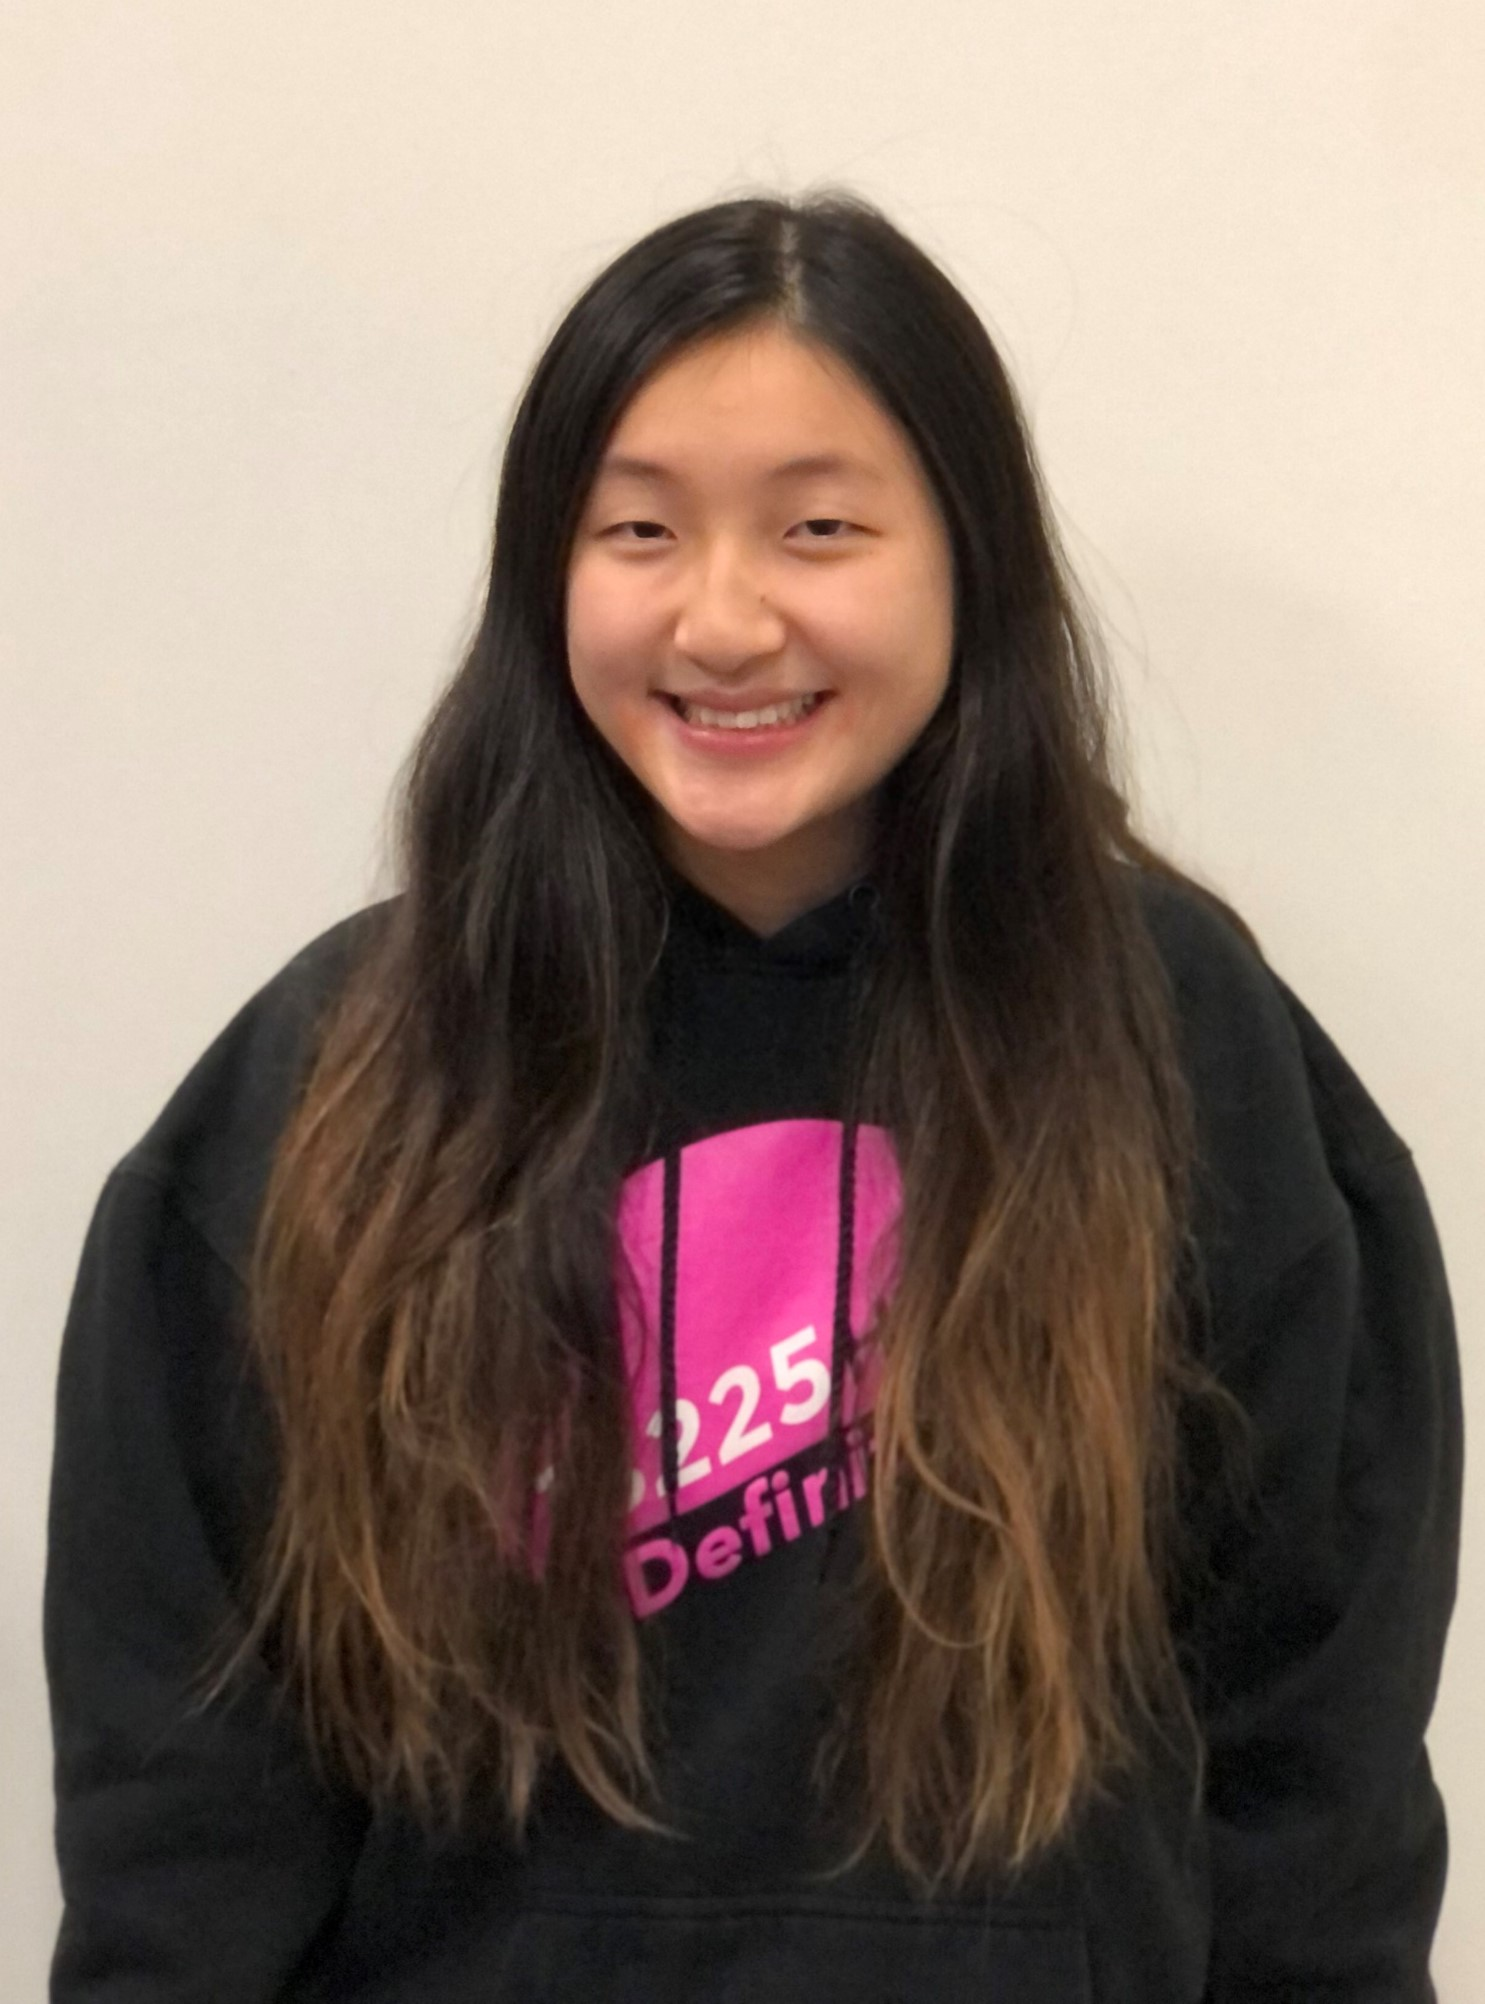
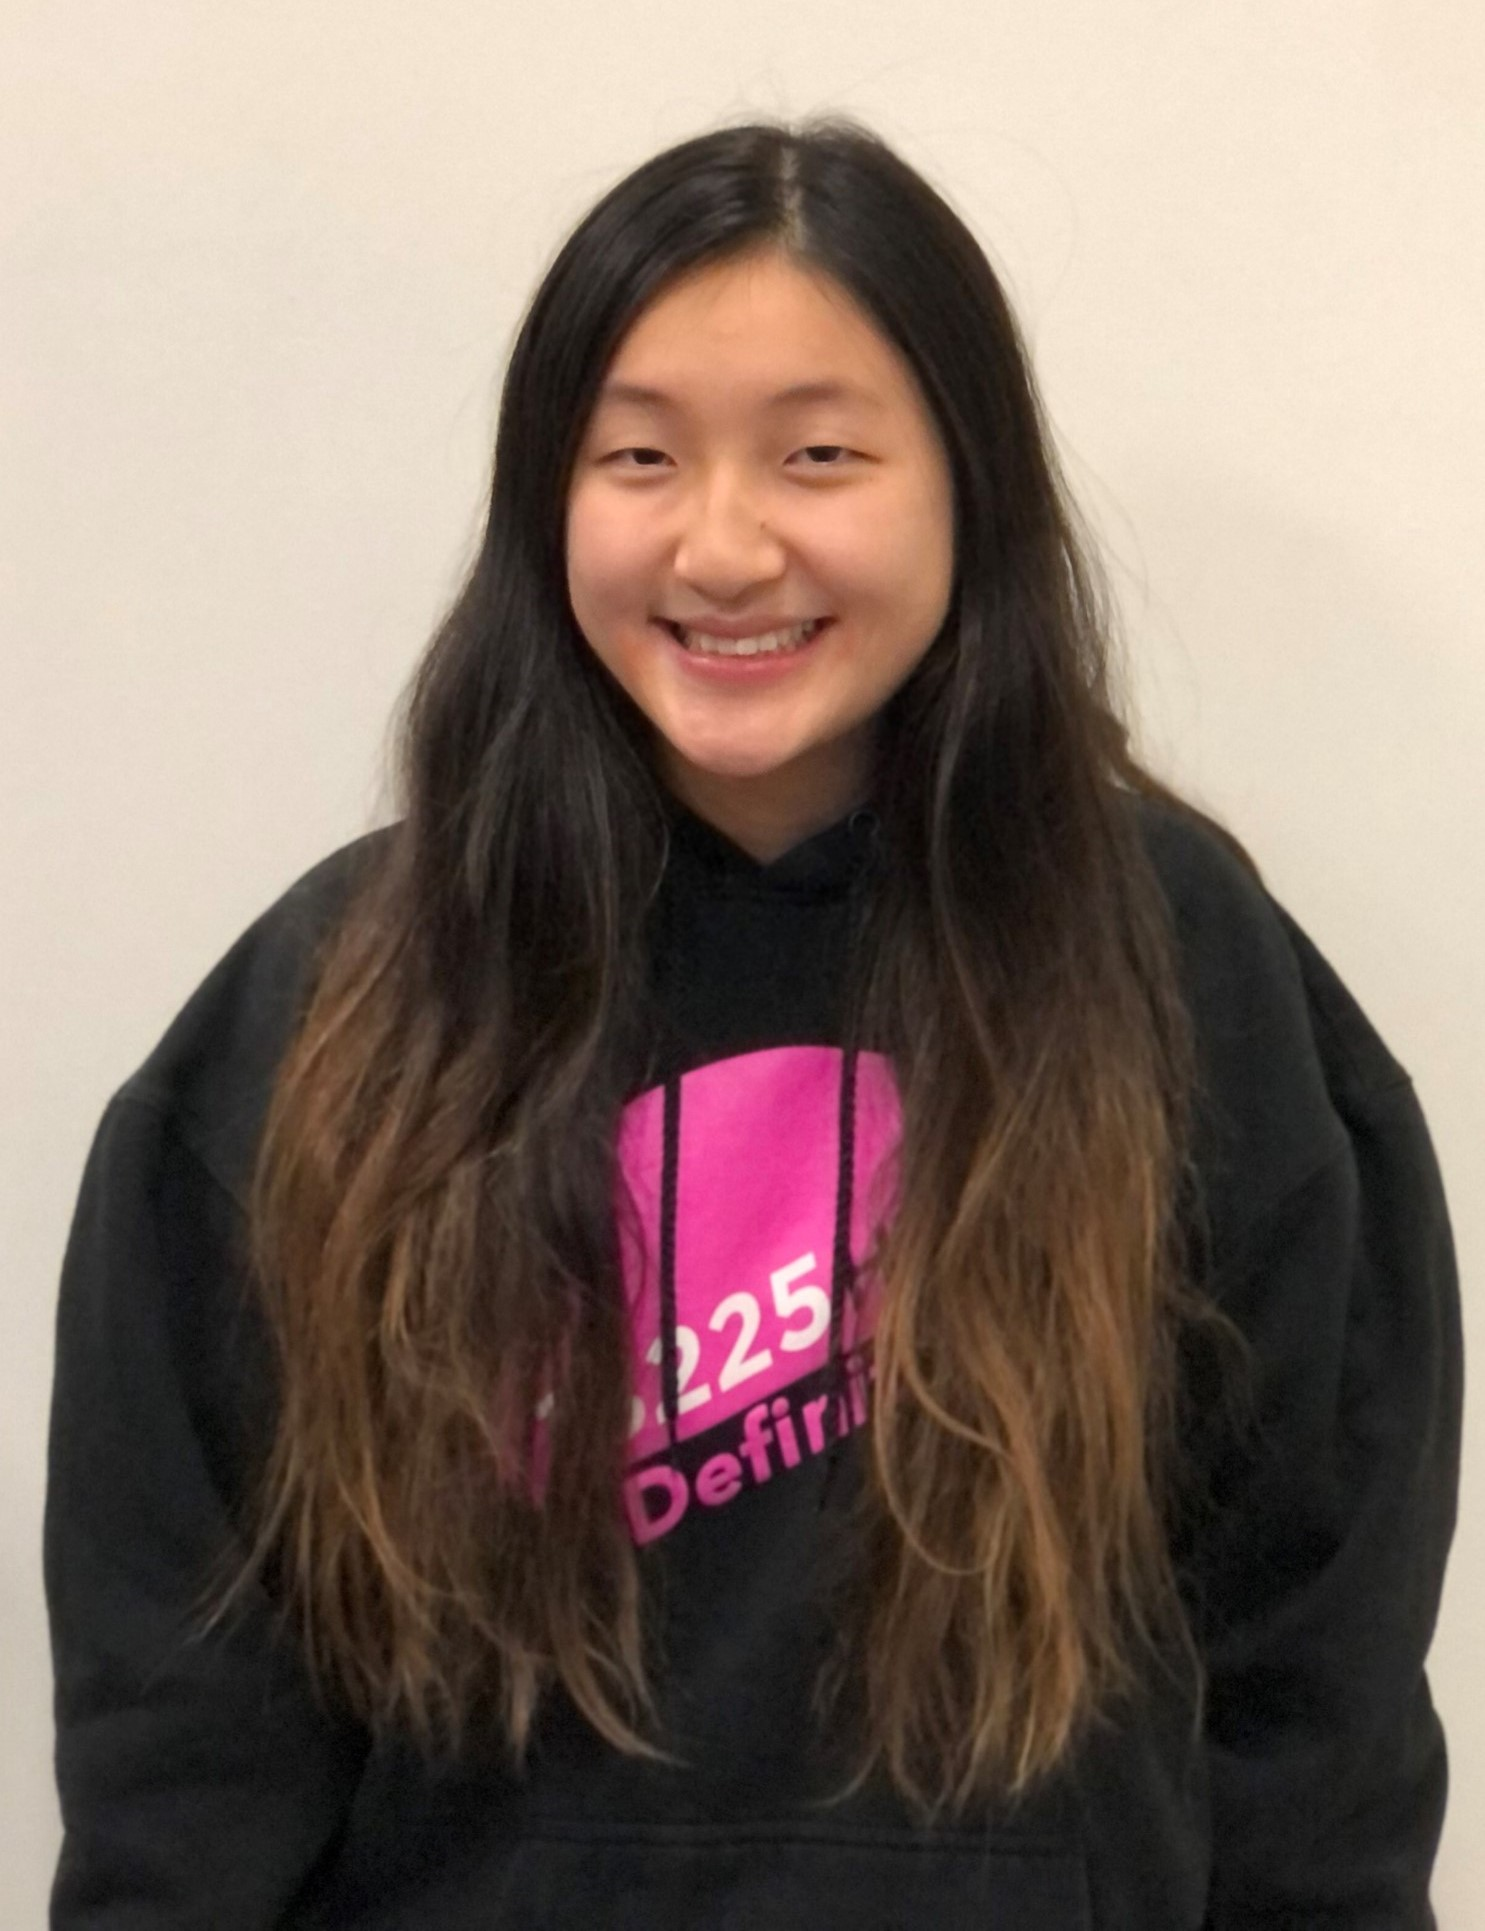
updated images + added subscription

diff --git a/pages/index.js b/pages/index.js
@@ -68,15 +68,15 @@ export default function Index() {
           <FadeInSection>
             <div className="row" style={{margin: 10, padding: 10, backgroundColor: '#333', borderRadius: 10}}>
               <div className="column" style={{display: 'flex', justifyContent: 'center', alignItems: 'center'}}>
-                <img src={require(`/public/images/TeamPicture.png`).default.src} width="80%" />
+                <img src={require(`/public/images/TeamPicture.png`).default.src} width="70%" />
               </div>
-              <div className="column" style={{fontWeight: 300}}>
+              <div className="column" style={{fontWeight: 300, borderLeftWidth: 2, borderLeftColor: 'white', borderLeftStyle:"solid", padding: 20}}>
                 <Title name="About Us" />
-                <p>We are FIRST Tech Challenge (FTC) Team 18225 High Definition, a 3rd year veteran robotics team from Bellevue, Washington composed of 12 enthusiastic students grades 7-12.</p>
+                <p style={{fontSize: 16}}>We are FIRST Tech Challenge (FTC) Team 18225 High Definition, a 3rd year veteran robotics team from Bellevue, Washington composed of 12 enthusiastic students grades 7-12.</p>
                 
-                <p><b>Our mission</b> is to promote STEM and FIRST within our community to inspire the next generation of innovators to solve challenges of the future! We spread mechanical, programming, business, and other practices within the community to ensure their success.</p>
+                <p style={{fontSize: 16}}><b>Our mission</b> is to promote STEM and FIRST within our community to inspire the next generation of innovators to solve challenges of the future! We spread mechanical, programming, business, and other practices within the community to ensure their success.</p>
 
-                <div style={{display: 'flex', justifyContent: 'center', alignItems: 'center'}}><Link href='/about' as={ process.env.PUBLIC_URL + '/about'}><a className="purplebutton">More about us</a></Link></div>
+                <div style={{display: 'flex', justifyContent: 'center', alignItems: 'center'}}><Link href='/about' as={ process.env.PUBLIC_URL + '/about'}><a className="purplebutton">Learn More</a></Link></div>
               </div>
             </div>
           </FadeInSection>
@@ -149,29 +149,29 @@ export default function Index() {
 
         <FadeInSection><div className="section">
           <Title name="About FIRST" />
-          <p style={{fontWeight: 300, marginTop: 0}}><a href="https://www.firstinspires.org/" style={{color: 'white'}}>FIRST Inspires</a> is a non-profit that strives to inspire the next generation of STEM innovators by challenging them in hands-on-learning through robotics competitions. Through these programs, students not only learn how to build and program a robot, but how to be a leader, work in a team, be confident in themselves, and more.</p>
+          <p style={{fontWeight: 300, marginTop: 0}}><a href="https://www.firstinspires.org/" style={{color: 'white'}}>FIRST Inspires</a> is a non-profit that <b>inspires</b> the next generation of STEM innovators by challenging them in hands-on-learning through robotics competitions. Through these programs, students not only learn how to build and program a robot, but how to be a leader, work in a team, be confident in themselves, and more.</p>
 
           <p>FIRST consists of 3 programs:</p>
 
           <div className="firstrow">
-            <div className="col">
+            <div className="col" style={{padding: 10}}>
               <a href="https://www.firstinspires.org/robotics/fll">
                 <h3>FIRST LEGO LEAGUE</h3>
-                <p>Students ages 4-16 compete in friendly competition where they are encouraged to explore real world challenges by developing a solution and build/program a LEGO robot to complete missions on a field.</p>
+                <p style={{fontWeight: 300}}>Students ages 4-16 compete in friendly competition where they are encouraged to explore real world challenges by developing a solution and build/program a LEGO robot to complete missions on a field.</p>
                 <img src="https://www.firstinspires.org/sites/all/themes/first/assets/images/2020/fll/event-experience.jpg" width="300px" />
               </a>
             </div>
-            <div className="col">
+            <div className="col" style={{padding: 10}}>
               <a href="https://www.firstinspires.org/robotics/ftc">
                 <h3>FIRST TECH CHALLENGE</h3>
-                <p>Students ages 12-18 learn to design and build robots using electronics programmed by Android technology and Java-based programming. Teams compete in an alliance format against other teams and in the process, learn to think like engineers.</p>
+                <p style={{fontWeight: 300}}>Students ages 12-18 learn to design and build robots using electronics programmed with Android and Java-based programming. Teams compete in an alliance format against other teams and in the process, learn to think like engineers.</p>
                 <img src="https://www.firstinspires.org/sites/all/themes/first/assets/images/2020/ftc/event-experience.jpg" width="300px" />
               </a>
             </div>
-            <div className="col">
+            <div className="col" style={{padding: 10}}>
               <a href="https://www.firstinspires.org/robotics/frc">
                 <h3>FIRST ROBOTICS COMPETITION</h3>
-                <p>Teams of high school students are challenged to design industrial-size robots to compete in difficult field missions in an alliance format. Through this process, they maintain a team brand, meet their goals, and promote STEM respect in the community.</p>
+                <p style={{fontWeight: 300}}>Teams of high school students are challenged to design industrial-size robots to compete in difficult field missions in an alliance format. They also maintain a team brand, meet their goals, and promote STEM respect in the community.</p>
                 <img src="https://www.firstinspires.org/sites/all/themes/first/assets/images/2020/frc/event-experience.jpg" width="300px" />
               </a>
             </div>

diff --git a/pages/about.js b/pages/about.js
@@ -26,12 +26,12 @@ export default function About() {
 
         <FadeInSection><div className="section">
           <Title name="Coaches" />
-          <div className="person-grid grid">
+          <div className="flex" style={{alignItems: 'center', justifyContent: 'center'}}><div className="person-grid grid" id="coach-grid" style={{width: '75%'}}>
             <div className="grid-item">
               <Image loader={loader} src="/images/coaches/jason.png" height={HEIGHT} width={WIDTH} className="member" />
               <h3>Coach Jason</h3>
               <br />
-              <p style={{fontWeight: 300}}>I'm Coach Jason, a civil engineer and Mechanical Design Mentor. I helped form and develop the team by providing strategic guidance. I work closely with our mechanical team with training and purchasing robot parts, 3D printing parts, and helping our team handle logistic and administrative tasks.</p>
+              <p style={{fontWeight: 300}}>I'm Coach Jason, a civil engineer and mechanical design mentor. I helped form and develop the team by providing strategic guidance. I work closely with our mechanical team with training and purchasing robot parts, and helping our team handle administrative tasks.</p>
             </div>
 
             <div className="grid-item">
@@ -42,24 +42,32 @@ export default function About() {
             </div>
 
             <div className="grid-item">
-              <Image loader={loader} src="/images/coaches/lynne.jpg" height={HEIGHT} width={WIDTH} className="member" />
-              <h3>Coach Lynne</h3>
+              <Image loader={loader} src="/images/coaches/yinhai.jpg" height={HEIGHT} width={WIDTH} className="member" />
+              <h3>Yinhai Wang</h3>
               <br />
-              <p style={{fontWeight: 300}}>I'm Lynne Dong, and I work for Microsoft. I have been coaching and mentoring FLL and FTC teams for the past 9 years. It's my pleasure to work with so many talented students in FIRST by teaching them technical/business skills and connecting them with professionals in the tech industry.</p>
+              <p style={{fontWeight: 300}}>bio</p>
             </div>
-
-            <div className="grid-item">
-             <Image loader={loader} src="/images/coaches/mark.jpg" height={HEIGHT} width={WIDTH} className="member" />
-              <h3>Coach Mark</h3>
-              <br />
-              <p style={{fontWeight: 300}}>I'm Mark Ma, and I work for the King County DJA. I have been an FTC mentor/coach for 3 years. Supporting STEM is one of my biggest passions, and in FIRST, I focus on coaching the mechanical/CAD team. I strive to push students to think creatively while learning important skills such as problem analysis and resolution.</p>
-            </div>
-          </div>
+          </div></div>
         </div></FadeInSection>
 
         <FadeInSection><div className="section">
           <Title name="Mentors" />
           <div className="person-grid grid">
+            <div className="grid-item">
+              <Image loader={loader} src="/images/mentors/lani.jpg" height={HEIGHT} width={WIDTH} className="member" />
+              <h3>Lani Cao</h3>
+            </div>
+
+            <div className="grid-item">
+              <Image loader={loader} src="/images/mentors/lynne.jpg" height={HEIGHT} width={WIDTH} className="member" />
+              <h3>Lynne Dong</h3>
+            </div>
+
+            <div className="grid-item">
+             <Image loader={loader} src="/images/mentors/mark.jpg" height={HEIGHT} width={WIDTH} className="member" />
+              <h3>Mark Ma</h3>
+            </div>
+
             <div className="grid-item">
               <Image loader={loader} src="/images/mentors/mihir.jpg" height={HEIGHT} width={WIDTH} className="member" />
               <h3>Mihir Jain</h3>
@@ -73,12 +81,7 @@ export default function About() {
             <div className="grid-item">
              <Image loader={loader} src="/images/mentors/xiaoxi.jpg" height={HEIGHT} width={WIDTH} className="member" />
               <h3>Xiaoxi Wang</h3>
-            </div>
-
-            <div className="grid-item">
-              <Image loader={loader} src="/images/mentors/yinhai.jpg" height={HEIGHT} width={WIDTH} className="member" />
-              <h3>Yinhai Wang</h3>
-            </div>
+            </div>            
           </div>
         </div></FadeInSection>
 

diff --git a/components/header.js b/components/header.js
@@ -1,9 +1,9 @@
-import React, { useEffect, useState } from 'react';
-import Top from './top';
-import NavBar from './navbar';
-import Banner from './banner';
+import React, { useEffect, useState } from "react";
+import Top from "./top";
+import NavBar from "./navbar";
+import Banner from "./banner";
 
-export default function Header({title, description, page}) {
+export default function Header({ title, description, page }) {
   const [image, setImage] = useState("");
 
   useEffect(() => {
@@ -13,35 +13,50 @@ export default function Header({title, description, page}) {
   }, []);
 
   const updateDimensions = () => {
-    if (window.innerWidth >= 768) {setImage('/images/TeamPicture.png');}
-    else { setImage('/images/phonebackground.png'); }
-  }
+    if (window.innerWidth >= 768) {
+      setImage("/images/TeamPicture.png");
+    } else {
+      setImage("/images/phonebackground.png");
+    }
+  };
 
   return (
     <>
       <Top name={page} />
-      <div className="coolHeader" style={{
-        backgroundRepeat: 'no-repeat',
-        backgroundPosition: 'top right',
-        backgroundAttachment: 'fixed',
-        backgroundSize: 'cover',
-        height: page == "Home" ? "100vh" : "60vh"
-      }}>
+      <div
+        className="coolHeader"
+        style={{
+          backgroundRepeat: "no-repeat",
+          backgroundPosition: "top right",
+          backgroundAttachment: "fixed",
+          backgroundSize: "cover",
+          height: page == "Home" ? "100vh" : "60vh",
+        }}
+      >
         <NavBar name={page} />
-        <div className="sidepanel" style={{
-          height: page == "Home" ? "70vh" : "25vh"
-        }}>
-          <div style={{
-            fontFamily: 'Roboto',
-            fontWeight: 400,
-            color: 'white'
-          }} className="floating">
-            <h1 style={{marginBottom: 5}}>{title}</h1>
-            <p style={{margin: 0, padding: 0, fontSize: 25}}>{description}</p>
-            <p style={{margin: 0, padding: 0}}><i>FTC Team 18225</i></p>
+        <div
+          className="sidepanel"
+          style={{
+            height: page == "Home" ? "70vh" : "25vh",
+          }}
+        >
+          <div
+            style={{
+              fontFamily: "Roboto",
+              fontWeight: 400,
+              color: "white",
+            }}
+            className="floating"
+          >
+            <h1 style={{ marginBottom: 5 }}>{title}</h1>
+            <p style={{ margin: 0, padding: 0, fontSize: 25 }}>{description}</p>
+            <p style={{ margin: 0, padding: 0 }}>
+              <i>FTC Team 18225</i>
+            </p>
           </div>
         </div>
       </div>
+      <Banner />
     </>
   );
-};
+}

diff --git a/components/banner.js b/components/banner.js
@@ -28,7 +28,7 @@ export default function Banner() {
         <div className="Banner">
             <div className="row banner-bar" style={{textAlign: 'center'}} id="banner1">
                 <div className="col banner-left">
-                    <p>Help fund our team's journey to the FTC World Championship 2022 <a style={{color: 'rgb(0, 0, 180)'}} target="_blank" href="https://gofund.me/7da764b4">now!</a></p>
+                    <p>Stay updated on FTC 18225 and <a style={{color: 'rgb(0, 0, 180)'}} target="_blank" href="https://forms.gle/diWqmexeMQcUMmXo7">join our subscription</a></p>
                 </div>
 
                 <div className="col banner-right">

diff --git a/pages/events.js b/pages/events.js
@@ -53,7 +53,7 @@ export default function Events() {
         </div></FadeInSection>
 
         <FadeInSection><div className="section">
-          <Title name="Past Events" />
+          <Title name="Noteable Past Events" />
           <div id="outreaches">
             <div style={{display: 'flex', justifyContent: 'center', alignItems: 'center', margin: 20}}><a className="purplebutton" href="https://www.youtube.com/c/EverstemEducation" target="_blank">Watch Our CWP Events Here</a></div>
             

diff --git a/scss/styles.scss b/scss/styles.scss
@@ -57,17 +57,14 @@ input, textarea {
     }
 }
 
-@media only screen and (min-width: 900px) {
-    .column {
-        float: left;
-        width: 48%;
-        padding: 10px;
-    }
-    
-    .row:after {
-        content: "";
-        display: table;
-        clear: both;
+.row {
+    display: grid;
+    grid-template-columns: 50% 50%;
+}
+
+@media only screen and (max-width: 700px) {
+    .row {
+        grid-template-columns: 100%;
     }
 }
 

diff --git a/scss/pages.scss b/scss/pages.scss
@@ -187,6 +187,10 @@
     .member {
         margin-bottom: 10px;
     }
+
+    #coach-grid {
+        grid-template-columns: 33% 33% 33% !important;
+    }
 }
 
 .Resources, .Seasons {
